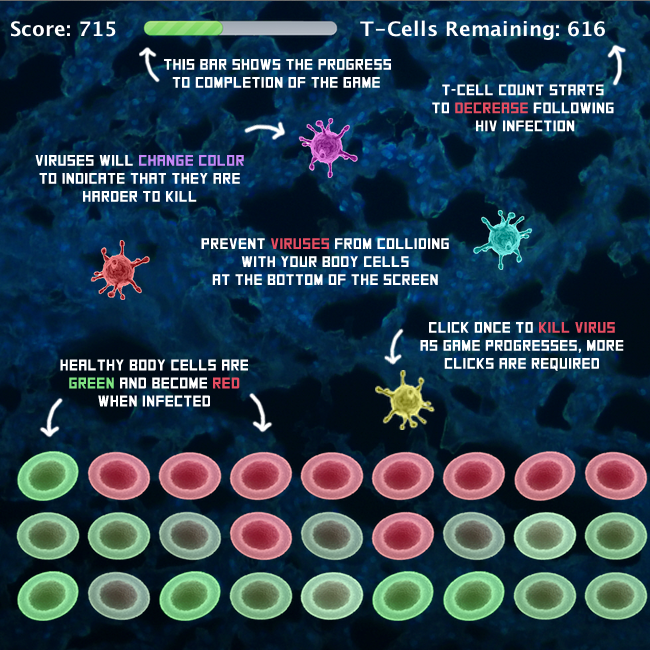
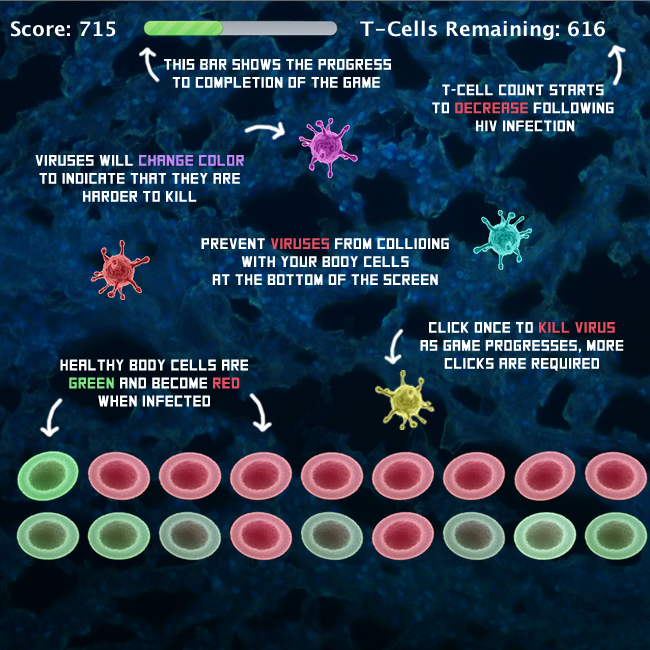
added static bg screen, deleted unused images

Changed region(s): [[0.0308, 0.8615, 1.0, 0.9538]]

diff --git a/AP Project 4/src/object/DisplayPanel.java b/AP Project 4/src/object/DisplayPanel.java
@@ -38,8 +38,8 @@ public class DisplayPanel extends JPanel {
 	final private String[] GAME_SCREENS = {"Welcome Screen", "Background", "Instructions", "Game",
 										   "Game Over", "Game Won", "Takeaways"};
 
-	private BufferedImage background, logo, background_sidebar, logo_sidebar, what_is_hiv, instructions_img, 
-						  HIV_attacks, HIV_invasion, preventHIVImage, gameOverImage, gameWonImage, precautionsImage;
+	private BufferedImage background, logo, background_img, background_sidebar, logo_sidebar, instructions_img, 
+						  gameOverImage, gameWonImage, precautionsImage;
 	
 	private JButton progressButton;
 	private JTextArea contentText;
@@ -78,7 +78,7 @@ public class DisplayPanel extends JPanel {
 		//Set up progress button to be used in game
 		progressButton = new JButton(buttonText);
 		progressButton = styleButton(progressButton);
-		progressButton.setBounds(350, 600, 150, 50);
+		progressButton.setBounds(350, 580, 150, 50);
 		
 		//Set up content text to be used in game
 		contentText = new JTextArea(textToDisplay, 10, 50);
@@ -147,7 +147,7 @@ public class DisplayPanel extends JPanel {
 		//Set up progressButton with listener
 		progressButton = new JButton(buttonText);
 		progressButton = styleButton(progressButton);
-		progressButton.setBounds(350, 600, 150, 50);
+		progressButton.setBounds(350, 580, 150, 50);
 		progressButton.addActionListener(new ActionListener() {
 
 			//Create action performed event that changes screen to one ahead
@@ -155,9 +155,8 @@ public class DisplayPanel extends JPanel {
 			public void actionPerformed(ActionEvent event) {
 				if(panelType == 4)
 					InvasionGame.changeDisplayPanel(GAME_SCREENS[panelType + 2]);
-				else {
+				else
 					InvasionGame.changeDisplayPanel(GAME_SCREENS[panelType + 1]);
-				}
 			}
 
 		});
@@ -209,9 +208,7 @@ public class DisplayPanel extends JPanel {
         //If panel is equal to the background screen
         else if (GAME_SCREENS[panelType] == "Background") {
 			//Draw the images to be displayed
-        	g2.drawImage(what_is_hiv,0,6,this);
-			g2.drawImage(HIV_invasion, -40, 375, this);
-			g2.drawImage(HIV_attacks, 325, 320, this);
+        	g2.drawImage(background_img, 0,0,this);
 			
         }
         
@@ -259,26 +256,17 @@ public class DisplayPanel extends JPanel {
 			//add logo image
         	logo = ImageIO.read(getClass().getResource("/aidsinvasion_logo_main.png"));
         	
+        	//load background screen image
+        	background_img = ImageIO.read(getClass().getResource("/background_screen.png"));
+        	
         	//load sidebar background
         	background_sidebar = ImageIO.read(getClass().getResource("/liver_cells_sidebar.png"));
         	
         	//lode sidebar logo image
             logo_sidebar = ImageIO.read(getClass().getResource("/aidsinvasion_logo_sidebar.png"));
             
-            //"What is HIV?" title image
-            what_is_hiv = ImageIO.read(getClass().getResource("/whatishiv.png"));
-            
             //instructions image
             instructions_img = ImageIO.read(getClass().getResource("/instructions_screen.png"));
-            
-            // HIV attacks T-cells
-            HIV_attacks = ImageIO.read(getClass().getResource("/HIV_attack.png"));
-            
-            // HIV attacks T-cells
-            HIV_invasion = ImageIO.read(getClass().getResource("/HIV_invasion.jpg"));
-
-            //Prevent HIV
-            preventHIVImage = ImageIO.read(getClass().getResource("/prevent_HIV.png"));
             
             //Game Over image
             gameOverImage = ImageIO.read(getClass().getResource("/game_over.png"));

diff --git a/AP Project 4/src/impl/InvasionGame.java b/AP Project 4/src/impl/InvasionGame.java
@@ -165,7 +165,7 @@ public class InvasionGame extends JApplet implements Runnable{
 	    
 	    sidebarPanel = new SidebarPanel();
 	    
-	    backgroundPanel = new DisplayPanel("Next Page", background_information, 1);
+	    backgroundPanel = new DisplayPanel("Next Page", 1);
 	    backgroundPanel.setBackground(Color.GRAY);
 
 	    instructionPanel = new DisplayPanel("Start Game!", 2);
